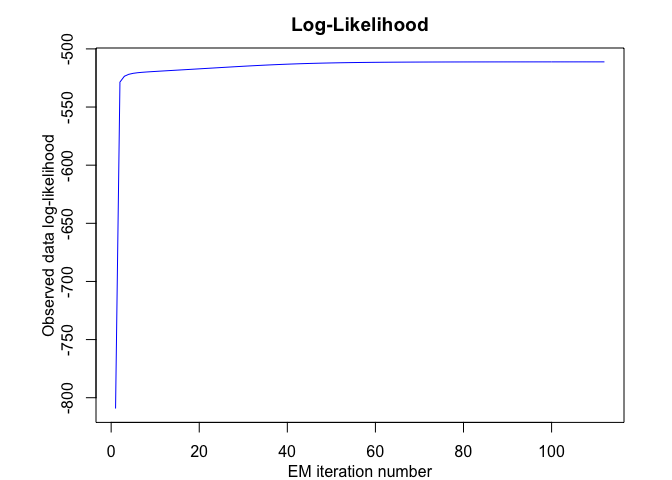
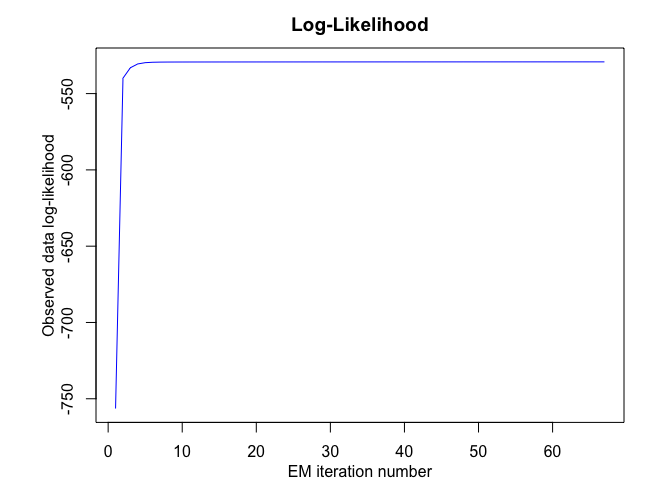
Replace 'cat()' by 'message()'
emSNMoE.R: Replace 'cat()' by 'message()'. Thus messages can be suppressed if needed.

diff --git a/README.md b/README.md
@@ -13,7 +13,7 @@ and clustering heteregenous data with the Skew-Normal Mixture-of-Experts
 
 # Installation
 
-You can install the development version of STMoE from
+You can install the development version of SNMoE from
 [GitHub](https://github.com/) with:
 
 ``` r
@@ -67,118 +67,73 @@ verbose_IRLS <- FALSE
 
 snmoe <- emSNMoE(x, matrix(sample$y), K, p, q, n_tries, max_iter, 
                  threshold, verbose, verbose_IRLS)
-#> EM: Iteration: 1 || log-likelihood: -809.30193348525
-#> EM: Iteration: 2 || log-likelihood: -528.538332311711
-#> EM: Iteration: 3 || log-likelihood: -523.517183552896
-#> EM: Iteration: 4 || log-likelihood: -521.861104050473
-#> EM: Iteration: 5 || log-likelihood: -521.007101823702
-#> EM: Iteration: 6 || log-likelihood: -520.498265158501
-#> EM: Iteration: 7 || log-likelihood: -520.145647092551
-#> EM: Iteration: 8 || log-likelihood: -519.864178023745
-#> EM: Iteration: 9 || log-likelihood: -519.615062761274
-#> EM: Iteration: 10 || log-likelihood: -519.380775883412
-#> EM: Iteration: 11 || log-likelihood: -519.153418630528
-#> EM: Iteration: 12 || log-likelihood: -518.929382386202
-#> EM: Iteration: 13 || log-likelihood: -518.706960169035
-#> EM: Iteration: 14 || log-likelihood: -518.485368813719
-#> EM: Iteration: 15 || log-likelihood: -518.263996781481
-#> EM: Iteration: 16 || log-likelihood: -518.042437198205
-#> EM: Iteration: 17 || log-likelihood: -517.820417926788
-#> EM: Iteration: 18 || log-likelihood: -517.597738238638
-#> EM: Iteration: 19 || log-likelihood: -517.37429436596
-#> EM: Iteration: 20 || log-likelihood: -517.150080371534
-#> EM: Iteration: 21 || log-likelihood: -516.925178961815
-#> EM: Iteration: 22 || log-likelihood: -516.699799636342
-#> EM: Iteration: 23 || log-likelihood: -516.474251394726
-#> EM: Iteration: 24 || log-likelihood: -516.248939710556
-#> EM: Iteration: 25 || log-likelihood: -516.024351231224
-#> EM: Iteration: 26 || log-likelihood: -515.801039550032
-#> EM: Iteration: 27 || log-likelihood: -515.5796151142
-#> EM: Iteration: 28 || log-likelihood: -515.360701912923
-#> EM: Iteration: 29 || log-likelihood: -515.144924822328
-#> EM: Iteration: 30 || log-likelihood: -514.932972137618
-#> EM: Iteration: 31 || log-likelihood: -514.725491273596
-#> EM: Iteration: 32 || log-likelihood: -514.523084365071
-#> EM: Iteration: 33 || log-likelihood: -514.326316379976
-#> EM: Iteration: 34 || log-likelihood: -514.1356830295
-#> EM: Iteration: 35 || log-likelihood: -513.951612349154
-#> EM: Iteration: 36 || log-likelihood: -513.77446165116
-#> EM: Iteration: 37 || log-likelihood: -513.604527177093
-#> EM: Iteration: 38 || log-likelihood: -513.442019997334
-#> EM: Iteration: 39 || log-likelihood: -513.287066663041
-#> EM: Iteration: 40 || log-likelihood: -513.139756866528
-#> EM: Iteration: 41 || log-likelihood: -513.000104729632
-#> EM: Iteration: 42 || log-likelihood: -512.86806163243
-#> EM: Iteration: 43 || log-likelihood: -512.743525196033
-#> EM: Iteration: 44 || log-likelihood: -512.626346603561
-#> EM: Iteration: 45 || log-likelihood: -512.516336155586
-#> EM: Iteration: 46 || log-likelihood: -512.413273299632
-#> EM: Iteration: 47 || log-likelihood: -512.316919681751
-#> EM: Iteration: 48 || log-likelihood: -512.227017716348
-#> EM: Iteration: 49 || log-likelihood: -512.143272556348
-#> EM: Iteration: 50 || log-likelihood: -512.065388594305
-#> EM: Iteration: 51 || log-likelihood: -511.993064491466
-#> EM: Iteration: 52 || log-likelihood: -511.925997072498
-#> EM: Iteration: 53 || log-likelihood: -511.863884692687
-#> EM: Iteration: 54 || log-likelihood: -511.806430052642
-#> EM: Iteration: 55 || log-likelihood: -511.753342519003
-#> EM: Iteration: 56 || log-likelihood: -511.704340112476
-#> EM: Iteration: 57 || log-likelihood: -511.659151074811
-#> EM: Iteration: 58 || log-likelihood: -511.617514811711
-#> EM: Iteration: 59 || log-likelihood: -511.579182560259
-#> EM: Iteration: 60 || log-likelihood: -511.543903403283
-#> EM: Iteration: 61 || log-likelihood: -511.511445745963
-#> EM: Iteration: 62 || log-likelihood: -511.481620796997
-#> EM: Iteration: 63 || log-likelihood: -511.454227970617
-#> EM: Iteration: 64 || log-likelihood: -511.429076631099
-#> EM: Iteration: 65 || log-likelihood: -511.405992056884
-#> EM: Iteration: 66 || log-likelihood: -511.384811597376
-#> EM: Iteration: 67 || log-likelihood: -511.365383890178
-#> EM: Iteration: 68 || log-likelihood: -511.347568331925
-#> EM: Iteration: 69 || log-likelihood: -511.331234533766
-#> EM: Iteration: 70 || log-likelihood: -511.316261765997
-#> EM: Iteration: 71 || log-likelihood: -511.302538399817
-#> EM: Iteration: 72 || log-likelihood: -511.289961353389
-#> EM: Iteration: 73 || log-likelihood: -511.278435548155
-#> EM: Iteration: 74 || log-likelihood: -511.267873380111
-#> EM: Iteration: 75 || log-likelihood: -511.258194209626
-#> EM: Iteration: 76 || log-likelihood: -511.2493238724
-#> EM: Iteration: 77 || log-likelihood: -511.241194213355
-#> EM: Iteration: 78 || log-likelihood: -511.233742644564
-#> EM: Iteration: 79 || log-likelihood: -511.226911727773
-#> EM: Iteration: 80 || log-likelihood: -511.22064878161
-#> EM: Iteration: 81 || log-likelihood: -511.214905513257
-#> EM: Iteration: 82 || log-likelihood: -511.209637674049
-#> EM: Iteration: 83 || log-likelihood: -511.204804738275
-#> EM: Iteration: 84 || log-likelihood: -511.200369604325
-#> EM: Iteration: 85 || log-likelihood: -511.19629831716
-#> EM: Iteration: 86 || log-likelihood: -511.192559811096
-#> EM: Iteration: 87 || log-likelihood: -511.189125671769
-#> EM: Iteration: 88 || log-likelihood: -511.185970462829
-#> EM: Iteration: 89 || log-likelihood: -511.183069955109
-#> EM: Iteration: 90 || log-likelihood: -511.180402383286
-#> EM: Iteration: 91 || log-likelihood: -511.177947871579
-#> EM: Iteration: 92 || log-likelihood: -511.175688270098
-#> EM: Iteration: 93 || log-likelihood: -511.173606995249
-#> EM: Iteration: 94 || log-likelihood: -511.17168890536
-#> EM: Iteration: 95 || log-likelihood: -511.169920169514
-#> EM: Iteration: 96 || log-likelihood: -511.168288155657
-#> EM: Iteration: 97 || log-likelihood: -511.166781326658
-#> EM: Iteration: 98 || log-likelihood: -511.165389145263
-#> EM: Iteration: 99 || log-likelihood: -511.164101987227
-#> EM: Iteration: 100 || log-likelihood: -511.162911061922
-#> EM: Iteration: 101 || log-likelihood: -511.161808339786
-#> EM: Iteration: 102 || log-likelihood: -511.160786486026
-#> EM: Iteration: 103 || log-likelihood: -511.159838800044
-#> EM: Iteration: 104 || log-likelihood: -511.158959160109
-#> EM: Iteration: 105 || log-likelihood: -511.158141972819
-#> EM: Iteration: 106 || log-likelihood: -511.157382126954
-#> EM: Iteration: 107 || log-likelihood: -511.156674951342
-#> EM: Iteration: 108 || log-likelihood: -511.156016176395
-#> EM: Iteration: 109 || log-likelihood: -511.155401899002
-#> EM: Iteration: 110 || log-likelihood: -511.154828344449
-#> EM: Iteration: 111 || log-likelihood: -511.154291887864
-#> EM: Iteration: 112 || log-likelihood: -511.153789489569
+#> EM - SNMoE: Iteration: 1 | log-likelihood: -756.406704414594
+#> EM - SNMoE: Iteration: 2 | log-likelihood: -539.912549465592
+#> EM - SNMoE: Iteration: 3 | log-likelihood: -533.058241209105
+#> EM - SNMoE: Iteration: 4 | log-likelihood: -530.559437749328
+#> EM - SNMoE: Iteration: 5 | log-likelihood: -529.735071665298
+#> EM - SNMoE: Iteration: 6 | log-likelihood: -529.461074531174
+#> EM - SNMoE: Iteration: 7 | log-likelihood: -529.362769791508
+#> EM - SNMoE: Iteration: 8 | log-likelihood: -529.323559028377
+#> EM - SNMoE: Iteration: 9 | log-likelihood: -529.305802030714
+#> EM - SNMoE: Iteration: 10 | log-likelihood: -529.29639511888
+#> EM - SNMoE: Iteration: 11 | log-likelihood: -529.290423451422
+#> EM - SNMoE: Iteration: 12 | log-likelihood: -529.285938346495
+#> EM - SNMoE: Iteration: 13 | log-likelihood: -529.282140905117
+#> EM - SNMoE: Iteration: 14 | log-likelihood: -529.278698389666
+#> EM - SNMoE: Iteration: 15 | log-likelihood: -529.275471417484
+#> EM - SNMoE: Iteration: 16 | log-likelihood: -529.272394308284
+#> EM - SNMoE: Iteration: 17 | log-likelihood: -529.269445683551
+#> EM - SNMoE: Iteration: 18 | log-likelihood: -529.266623130042
+#> EM - SNMoE: Iteration: 19 | log-likelihood: -529.263914620081
+#> EM - SNMoE: Iteration: 20 | log-likelihood: -529.261318145458
+#> EM - SNMoE: Iteration: 21 | log-likelihood: -529.258820318083
+#> EM - SNMoE: Iteration: 22 | log-likelihood: -529.256420451802
+#> EM - SNMoE: Iteration: 23 | log-likelihood: -529.254114236446
+#> EM - SNMoE: Iteration: 24 | log-likelihood: -529.251897488365
+#> EM - SNMoE: Iteration: 25 | log-likelihood: -529.249766171016
+#> EM - SNMoE: Iteration: 26 | log-likelihood: -529.247716421153
+#> EM - SNMoE: Iteration: 27 | log-likelihood: -529.245744563614
+#> EM - SNMoE: Iteration: 28 | log-likelihood: -529.243847115781
+#> EM - SNMoE: Iteration: 29 | log-likelihood: -529.242020784524
+#> EM - SNMoE: Iteration: 30 | log-likelihood: -529.24026245836
+#> EM - SNMoE: Iteration: 31 | log-likelihood: -529.238569196959
+#> EM - SNMoE: Iteration: 32 | log-likelihood: -529.236938219475
+#> EM - SNMoE: Iteration: 33 | log-likelihood: -529.235371179224
+#> EM - SNMoE: Iteration: 34 | log-likelihood: -529.233863908763
+#> EM - SNMoE: Iteration: 35 | log-likelihood: -529.232404697978
+#> EM - SNMoE: Iteration: 36 | log-likelihood: -529.230997970859
+#> EM - SNMoE: Iteration: 37 | log-likelihood: -529.229641743828
+#> EM - SNMoE: Iteration: 38 | log-likelihood: -529.228334131841
+#> EM - SNMoE: Iteration: 39 | log-likelihood: -529.227073320331
+#> EM - SNMoE: Iteration: 40 | log-likelihood: -529.225857563319
+#> EM - SNMoE: Iteration: 41 | log-likelihood: -529.224685179219
+#> EM - SNMoE: Iteration: 42 | log-likelihood: -529.223545747912
+#> EM - SNMoE: Iteration: 43 | log-likelihood: -529.222432325722
+#> EM - SNMoE: Iteration: 44 | log-likelihood: -529.221357750066
+#> EM - SNMoE: Iteration: 45 | log-likelihood: -529.220320908153
+#> EM - SNMoE: Iteration: 46 | log-likelihood: -529.219320604181
+#> EM - SNMoE: Iteration: 47 | log-likelihood: -529.218354867989
+#> EM - SNMoE: Iteration: 48 | log-likelihood: -529.217420971796
+#> EM - SNMoE: Iteration: 49 | log-likelihood: -529.216517168716
+#> EM - SNMoE: Iteration: 50 | log-likelihood: -529.215642237615
+#> EM - SNMoE: Iteration: 51 | log-likelihood: -529.214795029579
+#> EM - SNMoE: Iteration: 52 | log-likelihood: -529.213974458604
+#> EM - SNMoE: Iteration: 53 | log-likelihood: -529.213179494145
+#> EM - SNMoE: Iteration: 54 | log-likelihood: -529.212409155757
+#> EM - SNMoE: Iteration: 55 | log-likelihood: -529.21166250902
+#> EM - SNMoE: Iteration: 56 | log-likelihood: -529.210938662295
+#> EM - SNMoE: Iteration: 57 | log-likelihood: -529.210236764016
+#> EM - SNMoE: Iteration: 58 | log-likelihood: -529.209556000345
+#> EM - SNMoE: Iteration: 59 | log-likelihood: -529.208895593093
+#> EM - SNMoE: Iteration: 60 | log-likelihood: -529.208254797832
+#> EM - SNMoE: Iteration: 61 | log-likelihood: -529.207632902158
+#> EM - SNMoE: Iteration: 62 | log-likelihood: -529.207029190693
+#> EM - SNMoE: Iteration: 63 | log-likelihood: -529.206442793831
+#> EM - SNMoE: Iteration: 64 | log-likelihood: -529.205872830058
+#> EM - SNMoE: Iteration: 65 | log-likelihood: -529.205318741571
+#> EM - SNMoE: Iteration: 66 | log-likelihood: -529.204779994712
+#> EM - SNMoE: Iteration: 67 | log-likelihood: -529.204256079008
 
 snmoe$plot()
 ```
